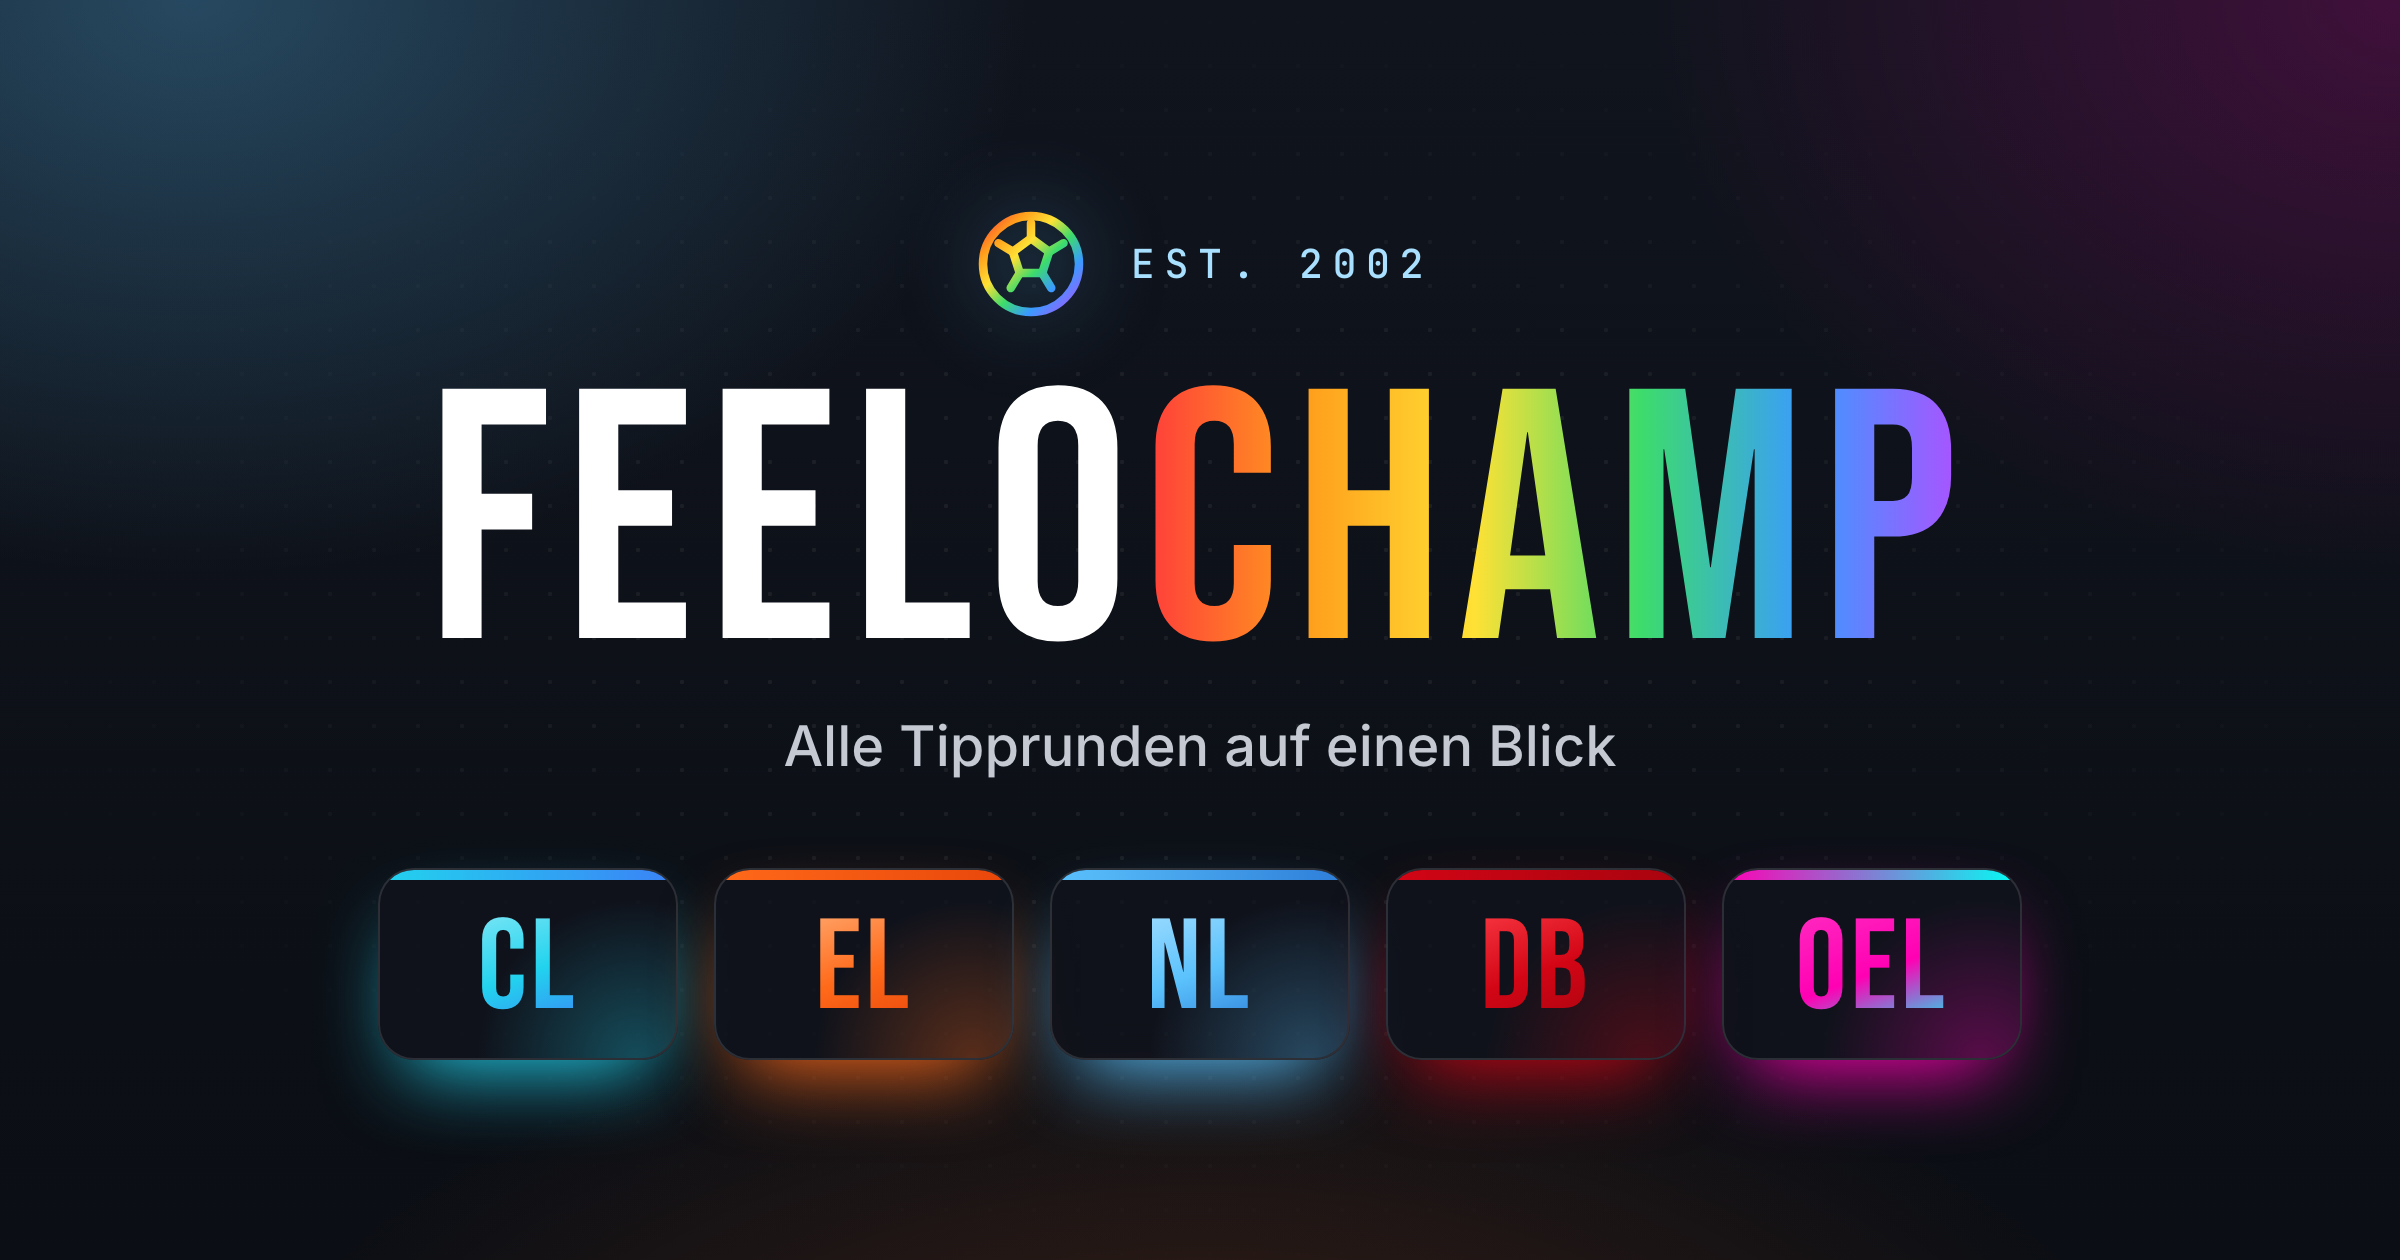
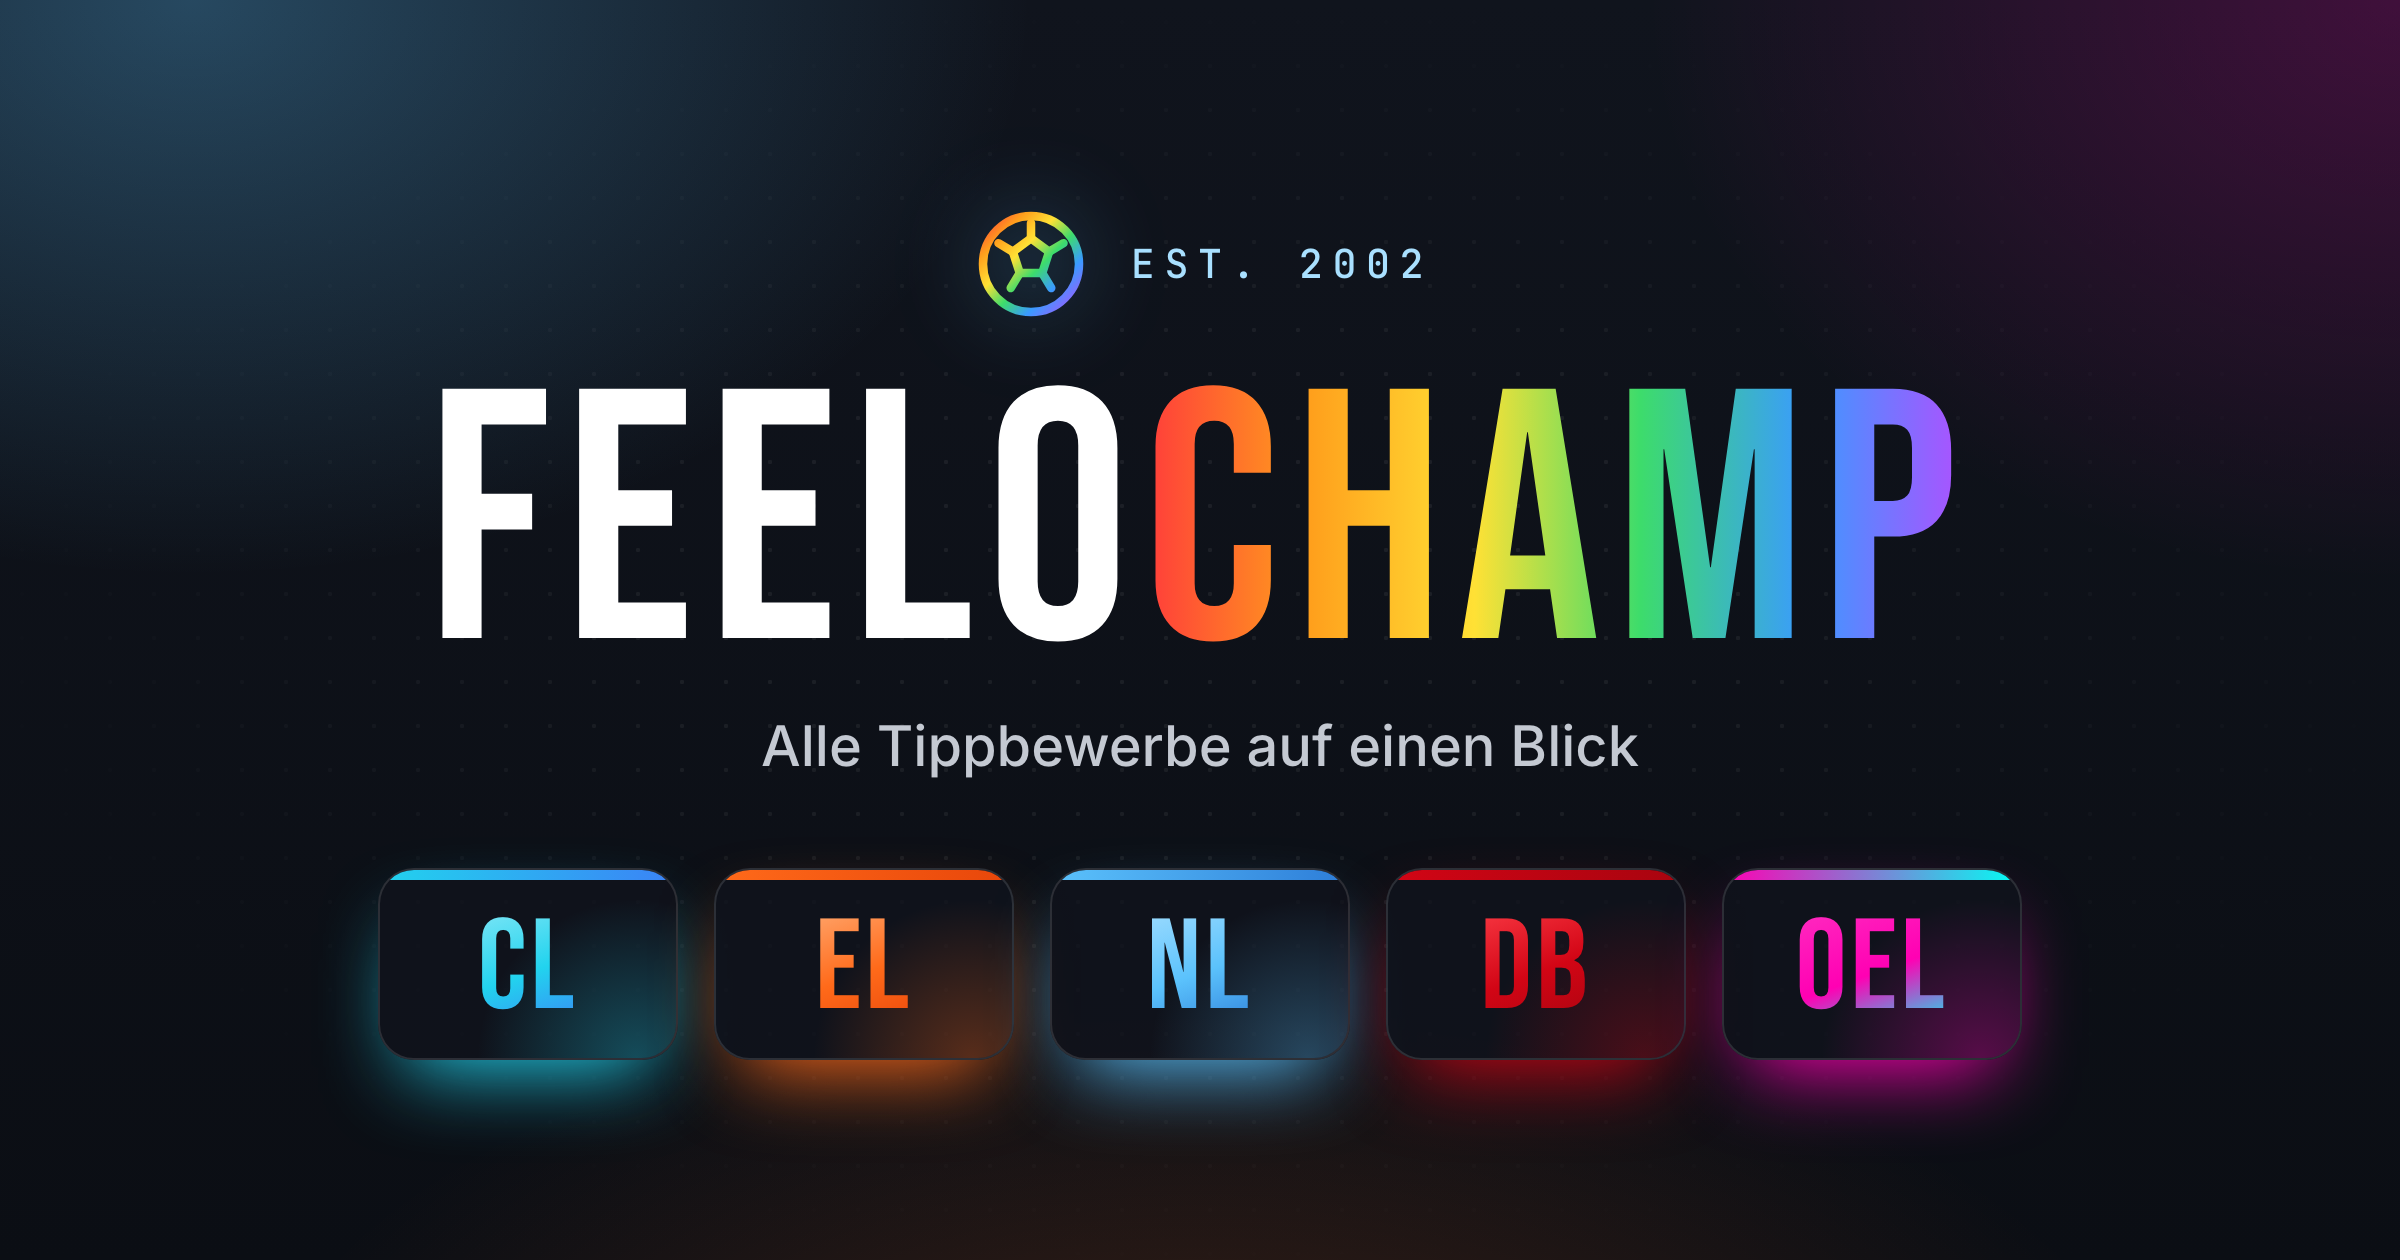
jump: "Tippbewerbe" statt "Tipprunden" (Seiten, Meta-Tags, og-Bild)

Changed region(s): [[0.3125, 0.5571, 0.6875, 0.619]]

diff --git a/jump.html b/jump.html
@@ -3,22 +3,22 @@
 <head>
 <meta charset="utf-8">
 <meta name="viewport" content="width=device-width, initial-scale=1">
-<title>Feelochamp &ndash; Tipprunden</title>
-<meta name="description" content="Alle Feelochamp-Tipprunden auf einen Blick: Champions League, Europa League, Nations League, Deutsche Bundesliga und Österreichische Bundesliga.">
+<title>Feelochamp &ndash; Tippbewerbe</title>
+<meta name="description" content="Alle Feelochamp-Tippbewerbe auf einen Blick: Champions League, Europa League, Nations League, Deutsche Bundesliga und Österreichische Bundesliga.">
 <!-- Social-Preview. og:image sollte für Facebook/LinkedIn eine absolute URL sein –
      beim Deployen auf die echte Adresse der Seite anpassen. -->
 <meta property="og:type" content="website">
 <meta property="og:site_name" content="Feelochamp">
 <meta property="og:locale" content="de_AT">
-<meta property="og:title" content="Feelochamp &ndash; Tipprunden">
-<meta property="og:description" content="Alle Feelochamp-Tipprunden auf einen Blick: Champions League, Europa League, Nations League, Deutsche Bundesliga und Österreichische Bundesliga.">
+<meta property="og:title" content="Feelochamp &ndash; Tippbewerbe">
+<meta property="og:description" content="Alle Feelochamp-Tippbewerbe auf einen Blick: Champions League, Europa League, Nations League, Deutsche Bundesliga und Österreichische Bundesliga.">
 <meta property="og:image" content="assets/og-jump.png">
 <meta property="og:image:type" content="image/png">
 <meta property="og:image:width" content="2400">
 <meta property="og:image:height" content="1260">
-<meta property="og:image:alt" content="Feelochamp – Tipprunden CL, EL, NL, DB und OEL">
+<meta property="og:image:alt" content="Feelochamp – Tippbewerbe CL, EL, NL, DB und OEL">
 <meta name="twitter:card" content="summary_large_image">
-<meta name="twitter:title" content="Feelochamp &ndash; Tipprunden">
+<meta name="twitter:title" content="Feelochamp &ndash; Tippbewerbe">
 <meta name="twitter:image" content="assets/og-jump.png">
 <link rel="stylesheet" href="assets/fonts.css">
 <link rel="stylesheet" href="assets/jump.css">
@@ -26,13 +26,13 @@
 </head>
 
 <!-- Eigenstaendige Jumppage (kein Template, nicht in build.js): Einstieg zu allen
-     Tipprunden auf einseitensprung.at. Akzentfarben je Karte ueber --acc / --acc-2 / --acc-text,
+     Tippbewerbe auf einseitensprung.at. Akzentfarben je Karte ueber --acc / --acc-2 / --acc-text,
      uebernommen aus --cyan / --blue / --cyan-soft der jeweiligen Zielseite. -->
 <body class="page-jump">
 <main class="jump">
   <!-- Kalender-Icon oben rechts: Abreiß-Kalenderblatt mit dem heutigen Datum
        (per Inline-JS gesetzt, ohne JS bleibt das Kalender-Symbol), Link auf jump_kalender.html -->
-  <a class="jump-cal-icon" href="jump_kalender.html" aria-label="Kalender aller Tipprunden" title="Kalender aller Tipprunden">
+  <a class="jump-cal-icon" href="jump_kalender.html" aria-label="Kalender aller Tippbewerbe" title="Kalender aller Tippbewerbe">
     <span class="jci-rings" aria-hidden="true"><i></i><i></i></span>
     <span class="jci-month" id="jciMonth" aria-hidden="true">Kal</span>
     <span class="jci-day" id="jciDay" aria-hidden="true">
@@ -56,10 +56,10 @@
     </svg>
     <p class="eyebrow">einseitensprung.at &middot; seit 2002</p>
     <h1 class="jump-title">Feelo<span>champ</span></h1>
-    <p class="jump-lead">W&auml;hle deine Tipprunde.</p>
+    <p class="jump-lead">W&auml;hle deinen Tippbewerb.</p>
   </header>
 
-  <nav class="jump-grid" aria-label="Tipprunden">
+  <nav class="jump-grid" aria-label="Tippbewerbe">
     <a class="jump-card" href="https://einseitensprung.at/cl/" style="--acc:#22d3ee; --acc-2:#3b82f6; --acc-text:#8fe9f7;">
       <span class="jump-code">CL</span>
       <span class="jump-name">Champions League</span>
@@ -97,7 +97,7 @@
     Alle Termine im Kalender <span aria-hidden="true">&rarr;</span>
   </a>
 
-  <footer class="jump-foot mono">&copy; Feelochamp &middot; private Tipprunde</footer>
+  <footer class="jump-foot mono">&copy; Feelochamp &middot; privater Tippbewerb</footer>
 </main>
 <script>
   (function(){

diff --git a/jump_kalender.html b/jump_kalender.html
@@ -3,8 +3,8 @@
 <head>
 <meta charset="utf-8">
 <meta name="viewport" content="width=device-width, initial-scale=1">
-<title>Feelochamp &ndash; Kalender aller Tipprunden</title>
-<meta name="description" content="Alle Spieltermine der Feelochamp-Tipprunden in einem Kalender: Champions League, Europa League, Nations League, Deutsche Bundesliga und Österreichische Bundesliga.">
+<title>Feelochamp &ndash; Kalender aller Tippbewerbe</title>
+<meta name="description" content="Alle Spieltermine der Feelochamp-Tippbewerbe in einem Kalender: Champions League, Europa League, Nations League, Deutsche Bundesliga und Österreichische Bundesliga.">
 <link rel="stylesheet" href="assets/fonts.css">
 <link rel="stylesheet" href="assets/jump.css">
 <link rel="icon" type="image/svg+xml" href="assets/favicon.svg">
@@ -12,7 +12,7 @@
 
 <!-- Eigenstaendige Seite zur Jumppage (kein Template, nicht in build.js), aufgebaut
      wie kalender.html (Monat / Woche / Liste, "+ weitere" -> Tages-Lightbox), aber
-     mit den Terminen ALLER Tipprunden, farbcodiert nach Runde statt nach Phase.
+     mit den Terminen ALLER Tippbewerbe, farbcodiert nach Runde statt nach Phase.
      Jede Ansicht springt beim Laden, beim Ansichtswechsel und über "Heute" zum
      nächsten Spieltag ab heute (markiert mit "Nächster Termin").
      Daten: assets/jump-kalender-data.js, erzeugt per `node src/jumpkalender.js`
@@ -51,7 +51,7 @@
     </div>
   </header>
 
-  <div class="jk-filters" role="group" aria-label="Tipprunden ein-/ausblenden">
+  <div class="jk-filters" role="group" aria-label="Tippbewerbe ein-/ausblenden">
     <button type="button" class="jk-filter" data-c="cl" aria-pressed="true"><b>CL</b> Champions League</button>
     <button type="button" class="jk-filter" data-c="el" aria-pressed="true"><b>EL</b> Europa League</button>
     <button type="button" class="jk-filter" data-c="nl" aria-pressed="true"><b>NL</b> Nations League</button>
@@ -76,7 +76,7 @@
     <div id="calBody" aria-live="polite"><!-- injected --></div>
   </section>
 
-  <footer class="jump-foot mono" id="calStand">&copy; Feelochamp &middot; private Tipprunde</footer>
+  <footer class="jump-foot mono" id="calStand">&copy; Feelochamp &middot; privater Tippbewerb</footer>
 </main>
 
 <!-- Tages-Lightbox ("+ weitere N") -->

diff --git a/assets/jump.css b/assets/jump.css
@@ -41,7 +41,7 @@ a:focus-visible{ outline: 2px solid var(--cyan); outline-offset:3px; border-radi
   margin:0;
 }
 
-/* Eigenständige Einstiegsseite zu allen Tipprunden. Jede Karte bringt ihre
+/* Eigenständige Einstiegsseite zu allen Tippbewerben. Jede Karte bringt ihre
    Akzentfarben als --acc / --acc-2 / --acc-text im style-Attribut mit –
    jeweils --cyan / --blue / --cyan-soft aus der main.css der Zielseite. */
 body.page-jump{
@@ -226,7 +226,7 @@ body.page-jump{
 .jump-home-icon:hover .jhi-grid i:not(.jhi-arrow){ transform: scale(1.12); }
 .jump-home-icon:hover .jhi-arrow{ transform: translateX(-2px); }
 
-/* ---------- Kalender aller Tipprunden (jump_kalender.html) ---------- */
+/* ---------- Kalender aller Tippbewerbe (jump_kalender.html) ---------- */
 /* Rundenfarben = Akzentfarben der Karten in jump.html (aus den Paletten
    der Zielseiten). Jeder Termin trägt .c-{cl,el,nl,db,oel}. */
 .c-cl { --acc:#22d3ee; --acc-2:#3b82f6; --acc-text:#8fe9f7; }

diff --git a/src/jumpkalender.js b/src/jumpkalender.js
@@ -1,5 +1,5 @@
 // Datenquelle für jump_kalender.html: holt die Spieltermine aller fünf
-// Tipprunden aus deren live kalender.asp (einseitensprung.at/{cl,el,nl,db,oel}/)
+// Tippbewerbe aus deren live kalender.asp (einseitensprung.at/{cl,el,nl,db,oel}/)
 // und schreibt sie als assets/jump-kalender-data.js (window.JUMP_KALENDER).
 //
 //   node src/jumpkalender.js
